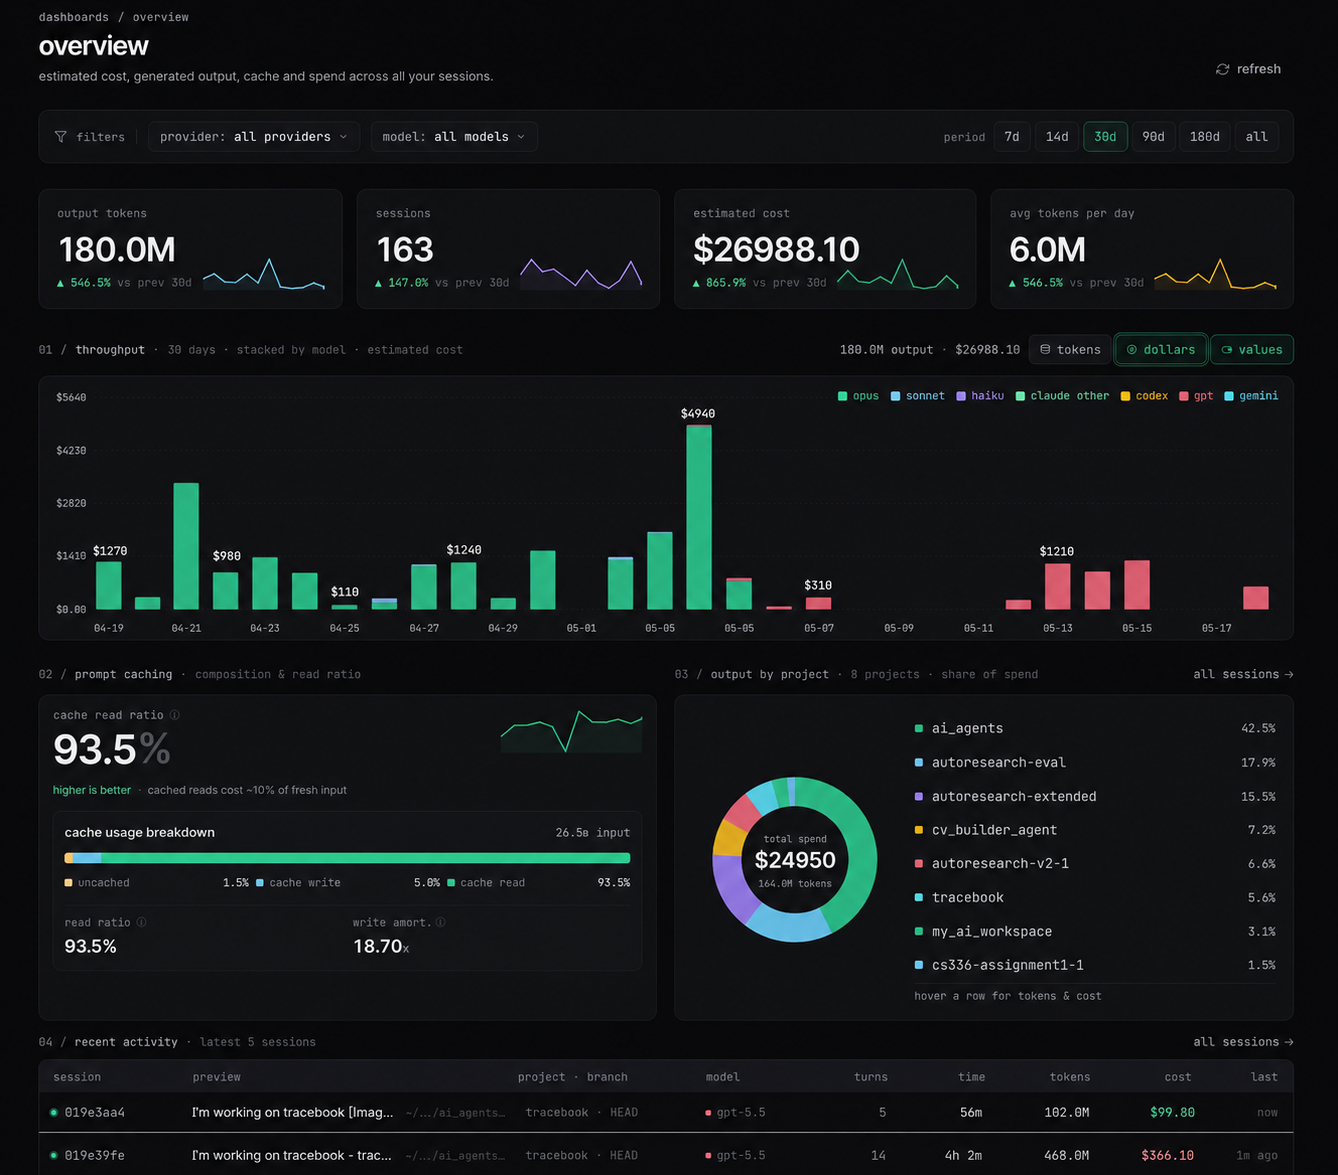
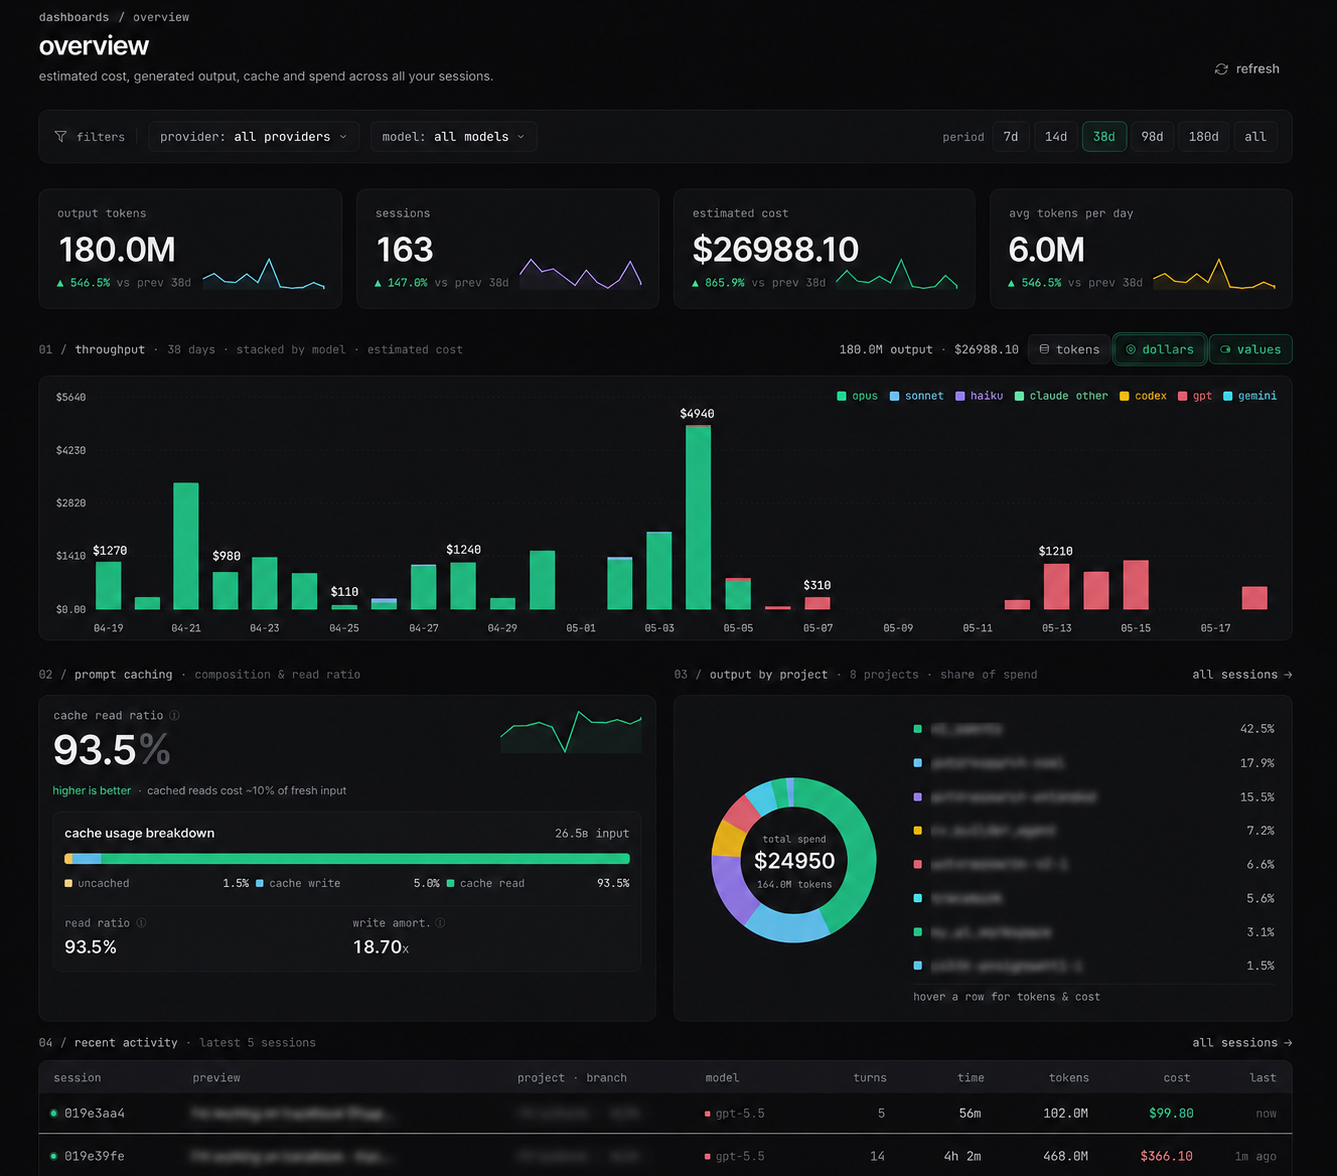
docs: use local dashboard image in README

diff --git a/README.md b/README.md
@@ -9,7 +9,7 @@ tracebook · http://127.0.0.1:4178
 watching ~/.claude/projects · 684 sessions indexed
 ```
 
-![Tracebook overview](figures/tracebook-cover.png)
+![Tracebook overview](figures/dashboard.png)
 
 ## What it does
 
